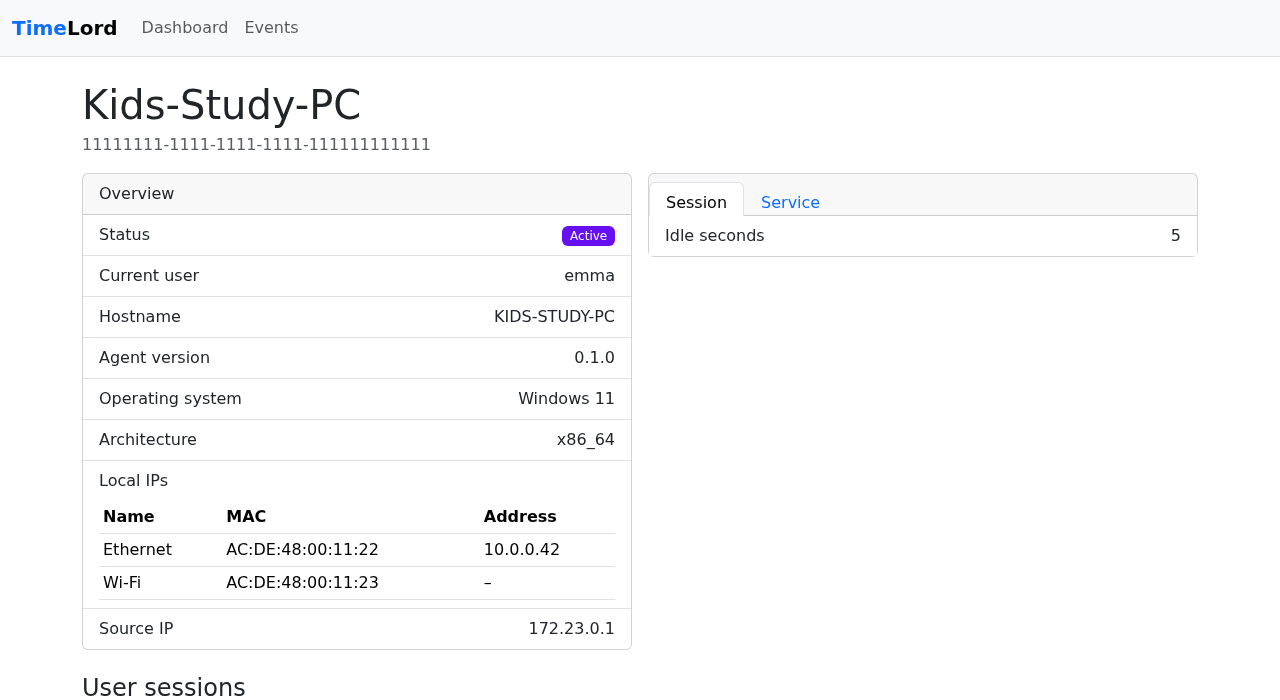
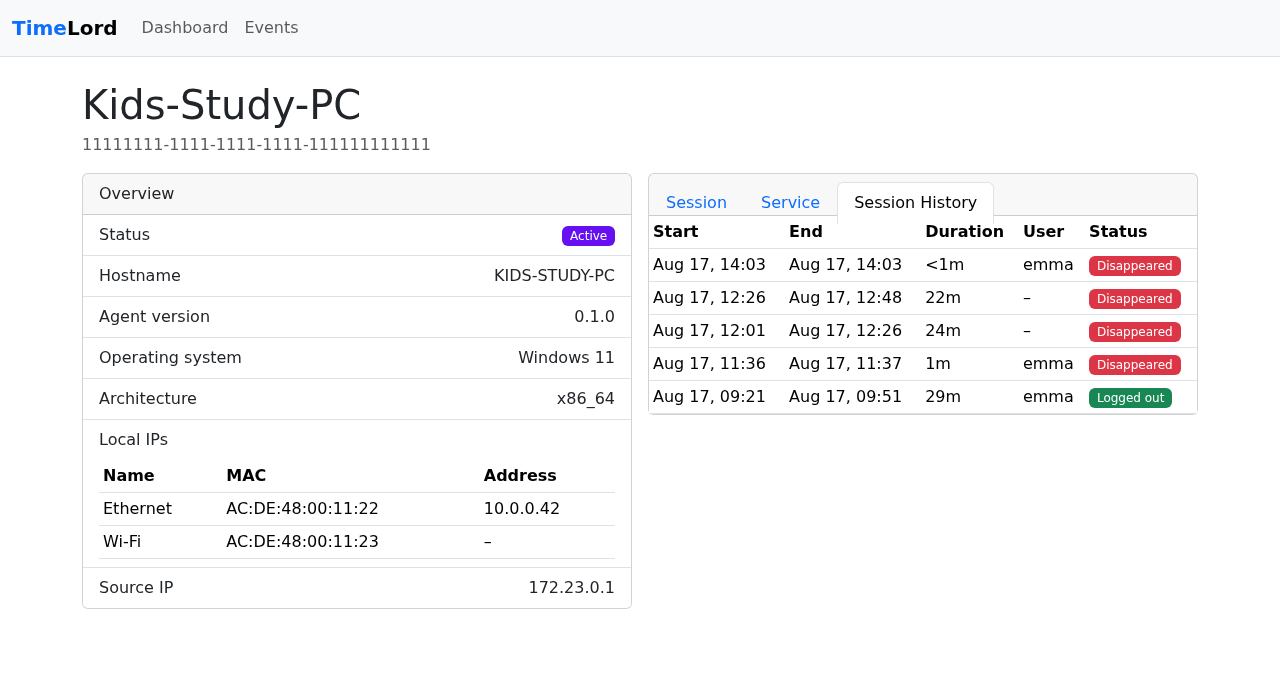
Move Current user into the Session tab; move User sessions into a Session History tab
Current user is genuinely a session fact (who's logged in right now), not
device identity — it belongs with Idle seconds under the Session tab, not
in Overview.

The User sessions table was a separate full-width section below the two
cards, disconnected from the Session/Service tabs it's actually related
to. It's now a third tab, "Session History", in the same tabbed card —
verified with a real Puppeteer click through all three tabs (Session,
Service, Session History), not just markup inspection.

diff --git a/controller/src/main/resources/templates/device-detail.html b/controller/src/main/resources/templates/device-detail.html
@@ -23,7 +23,6 @@
                             <span th:case="*" class="badge status-badge-inactive">Inactive</span>
                         </span>
                     </li>
-                    <li class="list-group-item d-flex justify-content-between"><span>Current user</span><span th:text="${device.currentUser} ?: '–'"></span></li>
                     <li class="list-group-item d-flex justify-content-between"><span>Hostname</span><span th:text="${device.hostname}"></span></li>
                     <li class="list-group-item d-flex justify-content-between"><span>Agent version</span><span th:text="${device.agentVersion}"></span></li>
                     <li class="list-group-item d-flex justify-content-between"><span>Operating system</span><span th:text="${device.operatingSystem} + ' ' + ${device.operatingSystemVersion}"></span></li>
@@ -66,11 +65,16 @@
                             <button class="nav-link" id="service-tab" data-bs-toggle="tab" data-bs-target="#service-pane"
                                     type="button" role="tab" aria-controls="service-pane" aria-selected="false">Service</button>
                         </li>
+                        <li class="nav-item" role="presentation">
+                            <button class="nav-link" id="session-history-tab" data-bs-toggle="tab" data-bs-target="#session-history-pane"
+                                    type="button" role="tab" aria-controls="session-history-pane" aria-selected="false">Session History</button>
+                        </li>
                     </ul>
                 </div>
                 <div class="tab-content" id="stateTabsContent">
                     <div class="tab-pane fade show active" id="session-pane" role="tabpanel" aria-labelledby="session-tab">
                         <ul class="list-group list-group-flush">
+                            <li class="list-group-item d-flex justify-content-between"><span>Current user</span><span th:text="${device.currentUser} ?: '–'"></span></li>
                             <li class="list-group-item d-flex justify-content-between"><span>Idle seconds</span><span th:text="${device.idleSeconds} ?: '–'"></span></li>
                         </ul>
                     </div>
@@ -82,54 +86,54 @@
                             <li class="list-group-item d-flex justify-content-between"><span>Last heartbeat</span><span th:text="${device.lastHeartbeatAt} ? ${@timeFormat.format(device.lastHeartbeatAt, zone)} : 'never'"></span></li>
                         </ul>
                     </div>
+                    <div class="tab-pane fade" id="session-history-pane" role="tabpanel" aria-labelledby="session-history-tab">
+                        <div class="table-responsive">
+                            <table class="table table-sm table-hover mb-0">
+                                <thead>
+                                <tr>
+                                    <th>Start</th>
+                                    <th class="d-none d-sm-table-cell">End</th>
+                                    <th>Duration</th>
+                                    <th>User</th>
+                                    <th>Status</th>
+                                </tr>
+                                </thead>
+                                <tbody>
+                                <tr th:each="s : ${sessions}">
+                                    <td th:text="${@timeFormat.format(s.start, zone)}"></td>
+                                    <td class="d-none d-sm-table-cell" th:text="${s.end} ? ${@timeFormat.format(s.end, zone)} : '---'"></td>
+                                    <td th:text="${s.durationLabel()}"></td>
+                                    <td th:text="${s.username} ?: '–'"></td>
+                                    <td th:if="${s.ongoing}"
+                                        th:switch="${device.status.name() == 'OFFLINE' ? 'OFFLINE' : (device.active ? 'ACTIVE' : (device.sessionState ?: 'NO_SESSION'))}">
+                                        <span th:case="'OFFLINE'" class="badge status-badge-offline">Offline</span>
+                                        <span th:case="'ACTIVE'" class="badge status-badge-active">Active</span>
+                                        <span th:case="'LOCKED'" class="badge session-state-locked">Locked</span>
+                                        <span th:case="'SUSPENDED'" class="badge session-badge-suspended">Suspended</span>
+                                        <span th:case="'DISCONNECTED'" class="badge session-badge-disappeared">Disconnected</span>
+                                        <span th:case="*" class="badge status-badge-inactive">Inactive</span>
+                                    </td>
+                                    <td th:if="${!s.ongoing}">
+                                        <span th:if="${s.endReason != null and s.endReason.name() == 'LOGGED_OUT'}"
+                                              class="badge session-badge-logged-out">Logged out</span>
+                                        <span th:if="${s.endReason != null and s.endReason.name() == 'STOPPED'}"
+                                              class="badge session-badge-stopped">Stopped</span>
+                                        <span th:if="${s.endReason != null and s.endReason.name() == 'SUSPENDED'}"
+                                              class="badge session-badge-suspended">Suspended</span>
+                                        <span th:if="${s.endReason != null and s.endReason.name() == 'DISAPPEARED'}"
+                                              class="badge session-badge-disappeared">Disappeared</span>
+                                    </td>
+                                </tr>
+                                <tr th:if="${#lists.isEmpty(sessions)}">
+                                    <td colspan="5" class="text-muted text-center py-3">No user sessions for this device yet.</td>
+                                </tr>
+                                </tbody>
+                            </table>
+                        </div>
+                    </div>
                 </div>
             </div>
         </div>
-    </div>
-
-    <h2 class="h4">User sessions</h2>
-    <div class="table-responsive">
-        <table class="table table-sm table-hover">
-            <thead>
-            <tr>
-                <th>Start</th>
-                <th class="d-none d-sm-table-cell">End</th>
-                <th>Duration</th>
-                <th>User</th>
-                <th>Status</th>
-            </tr>
-            </thead>
-            <tbody>
-            <tr th:each="s : ${sessions}">
-                <td th:text="${@timeFormat.format(s.start, zone)}"></td>
-                <td class="d-none d-sm-table-cell" th:text="${s.end} ? ${@timeFormat.format(s.end, zone)} : '---'"></td>
-                <td th:text="${s.durationLabel()}"></td>
-                <td th:text="${s.username} ?: '–'"></td>
-                <td th:if="${s.ongoing}"
-                    th:switch="${device.status.name() == 'OFFLINE' ? 'OFFLINE' : (device.active ? 'ACTIVE' : (device.sessionState ?: 'NO_SESSION'))}">
-                    <span th:case="'OFFLINE'" class="badge status-badge-offline">Offline</span>
-                    <span th:case="'ACTIVE'" class="badge status-badge-active">Active</span>
-                    <span th:case="'LOCKED'" class="badge session-state-locked">Locked</span>
-                    <span th:case="'SUSPENDED'" class="badge session-badge-suspended">Suspended</span>
-                    <span th:case="'DISCONNECTED'" class="badge session-badge-disappeared">Disconnected</span>
-                    <span th:case="*" class="badge status-badge-inactive">Inactive</span>
-                </td>
-                <td th:if="${!s.ongoing}">
-                    <span th:if="${s.endReason != null and s.endReason.name() == 'LOGGED_OUT'}"
-                          class="badge session-badge-logged-out">Logged out</span>
-                    <span th:if="${s.endReason != null and s.endReason.name() == 'STOPPED'}"
-                          class="badge session-badge-stopped">Stopped</span>
-                    <span th:if="${s.endReason != null and s.endReason.name() == 'SUSPENDED'}"
-                          class="badge session-badge-suspended">Suspended</span>
-                    <span th:if="${s.endReason != null and s.endReason.name() == 'DISAPPEARED'}"
-                          class="badge session-badge-disappeared">Disappeared</span>
-                </td>
-            </tr>
-            <tr th:if="${#lists.isEmpty(sessions)}">
-                <td colspan="5" class="text-muted text-center py-3">No user sessions for this device yet.</td>
-            </tr>
-            </tbody>
-        </table>
     </div>
 </div>
 <div th:replace="~{fragments/live-refresh :: live-refresh}"></div>
